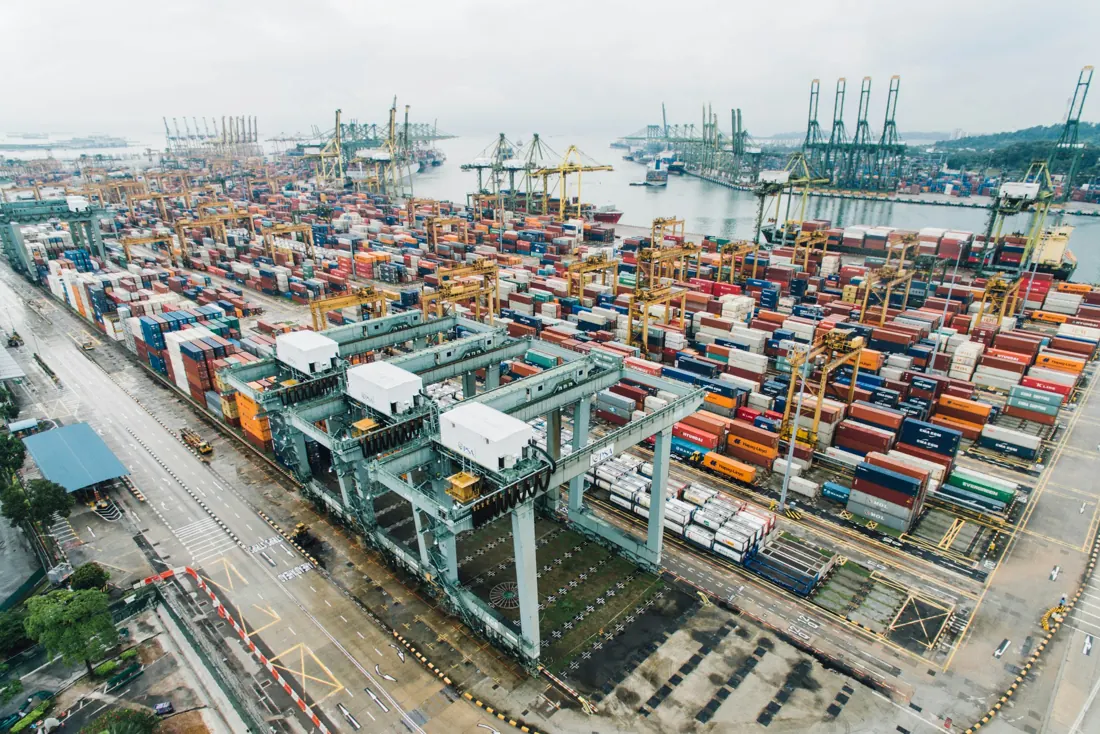
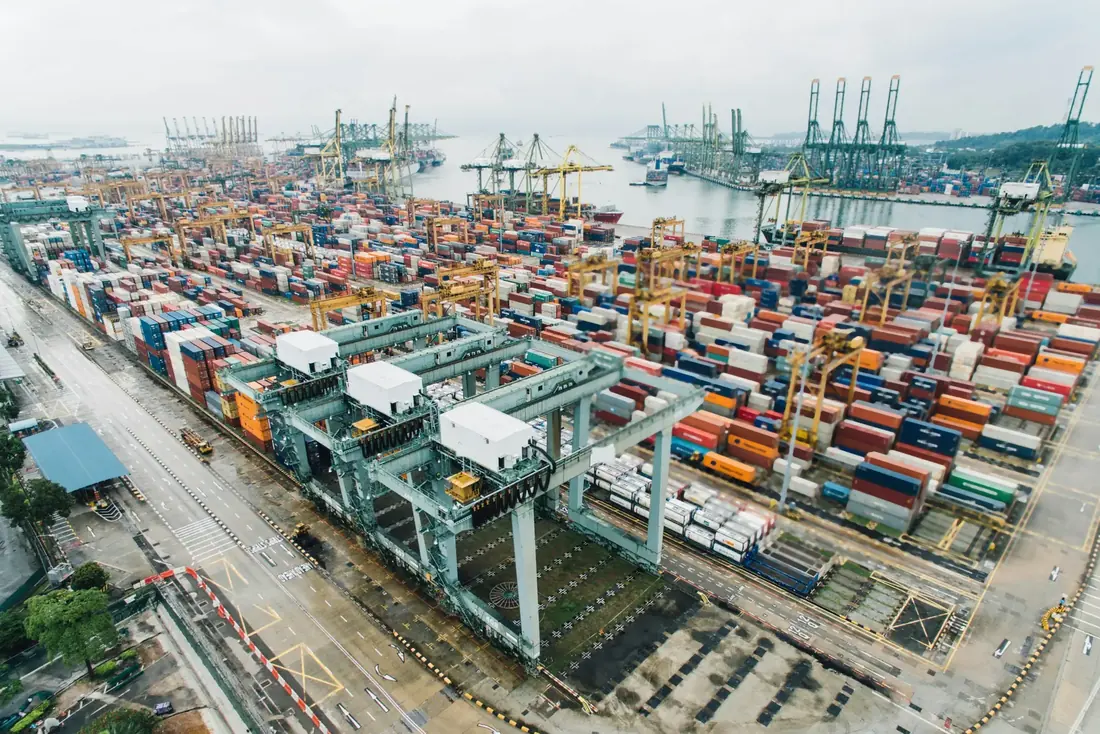
Final polish: cargo photo, tablet signal clearance, complete assistant demo
- Cargo photo: shipping-line names softened (feathered median over the container field only)
  and crane-cabin/sign-plate operator marks retouched out; sky, water and cranes untouched.
- Living Circuit: the route is measured against the revealed layout (.lc-measure), visible
  decorative lines count as obstacles, tablet clearance widened; no near-misses at any size.
- AI assistant demo: complete chat window (assistant header, bottom-anchored conversation,
  composer), plays once on entering view and holds; fixed height so nothing shifts; demo
  panels equal height with aligned captions.
- QA: layout-stability-while-scrolling check; reveal metric ignores unrelated animation;
  WebKit renderer-crash retry per route.

Claude-Session: https://claude.ai/code/session_01776VBYmXcpRozeZDMgVQrE

diff --git a/website/src/components/home/AiDemos.tsx b/website/src/components/home/AiDemos.tsx
@@ -37,9 +37,10 @@ function useTicker(steps: number, ms: number) {
 
 function Panel({ title, caption, children }: { title: string; caption: string; children: React.ReactNode }) {
   return (
-    <figure className="demo-panel group relative flex flex-col overflow-hidden rounded-3xl border border-white/[0.07] bg-[linear-gradient(165deg,rgba(9,30,82,0.75),rgba(0,10,40,0.85))] p-5 shadow-[0_30px_60px_-36px_rgba(0,0,0,0.9)] transition-[border-color] duration-300 hover:border-[#00F6FE]/30 sm:p-6">
+    <figure className="demo-panel group relative flex h-full flex-col overflow-hidden rounded-3xl border border-white/[0.07] bg-[linear-gradient(165deg,rgba(9,30,82,0.75),rgba(0,10,40,0.85))] p-5 shadow-[0_30px_60px_-36px_rgba(0,0,0,0.9)] transition-[border-color] duration-300 hover:border-[#00F6FE]/30 sm:p-6">
       <span className="absolute right-4 top-4 z-10 rounded-full border border-white/10 px-2 py-0.5 text-[0.58rem] uppercase tracking-[0.16em] text-haze">Illustrative</span>
-      <div className="relative flex-1 pt-5">{children}</div>
+      {/* Equal-height panels in a row: each demo is centred in its space and every caption sits on the same line. */}
+      <div className="relative flex flex-1 flex-col justify-center pt-5">{children}</div>
       <figcaption className="mt-5 border-t border-white/[0.06] pt-4">
         <p className="text-[1rem] font-semibold text-ink">{title}</p>
         <p className="mt-1 text-[0.86rem] leading-relaxed text-mist">{caption}</p>
@@ -159,13 +160,44 @@ function AutomatedWorkflow() {
   );
 }
 
-/* --------------------------------------------- 3 · a customer-facing assistant */
-// An illustrative service enquiry: answered from the business's own knowledge, guided to a
-// booking, and handed to a person when it needs one.
-function Bubble({ who, children, show }: { who: "customer" | "assistant"; children: React.ReactNode; show: boolean }) {
+/**
+ * Plays a sequence once, the first time it scrolls into view, then holds the final state. It
+ * starts (and renders on the server) at `from`, so the panel is never shown empty.
+ */
+function useSequence(steps: number, ms: number, from: number) {
+  const ref = useRef<HTMLDivElement>(null);
+  const [step, setStep] = useState(steps - 1);
+  useEffect(() => {
+    const el = ref.current;
+    if (!el || window.matchMedia("(prefers-reduced-motion: reduce)").matches) return;
+    let timer: ReturnType<typeof setInterval> | null = null;
+    const io = new IntersectionObserver(
+      ([e]) => {
+        if (!e.isIntersecting) return;
+        io.disconnect();
+        setStep(from);
+        timer = setInterval(() => {
+          setStep((v) => {
+            if (v + 1 >= steps - 1 && timer) clearInterval(timer);
+            return Math.min(steps - 1, v + 1);
+          });
+        }, ms);
+      },
+      { threshold: 0.35 },
+    );
+    io.observe(el);
+    return () => {
+      io.disconnect();
+      if (timer) clearInterval(timer);
+    };
+  }, [steps, ms, from]);
+  return { ref, step };
+}
+
+function Bubble({ who, children }: { who: "customer" | "assistant"; children: React.ReactNode }) {
   const mine = who === "customer";
   return (
-    <div className={`flex gap-2 transition-[opacity,transform] duration-500 ${mine ? "justify-end" : ""}`} style={{ opacity: show ? 1 : 0, transform: show ? "none" : "translateY(6px)" }}>
+    <div className={`chat-in flex gap-2 ${mine ? "justify-end" : ""}`}>
       {!mine && (
         <span className="grid h-6 w-6 shrink-0 place-items-center rounded-md border border-[#00F6FE]/40 text-[#00F6FE]">
           <Icon name="assistant" className="h-3.5 w-3.5" />
@@ -176,34 +208,66 @@ function Bubble({ who, children, show }: { who: "customer" | "assistant"; childr
   );
 }
 
+/* --------------------------------------------- 3 · a customer-facing assistant */
+// An illustrative service enquiry, shown as a complete chat window: who is answering, the
+// conversation anchored to the bottom like a real chat (fixed height, so nothing moves around
+// it), and the message field. It plays through
+// once when it comes into view (answer → booking → handover to a person) and then holds.
 function Assistant() {
-  const { ref, step, reduced } = useTicker(6, 1500);
-  const s = reduced ? 5 : step;
+  const { ref, step: s } = useSequence(6, 1300, 1);
   return (
-    <div ref={ref} aria-hidden className="space-y-2.5">
-      <Bubble who="customer" show>
-        Can someone look at my air-conditioning unit this week? It’s started rattling.
-      </Bubble>
-      <Bubble who="assistant" show={s >= 1}>
-        A rattle is often a loose panel or fan mount — worth checking soon. We can visit Thursday 10:00 or Friday 14:00.
-        <span className="mt-1.5 flex flex-wrap gap-1.5">
-          {["Thu 10:00", "Fri 14:00"].map((t, i) => (
-            <span key={t} className="rounded-full border px-2 py-0.5 text-[0.66rem] transition-colors duration-500" style={{ borderColor: s >= 3 && i === 0 ? "#83FD80" : "rgba(0,246,254,0.35)", color: s >= 3 && i === 0 ? "#83FD80" : "#9fefff" }}>
-              {t}
-            </span>
-          ))}
-          <span className="rounded-full border border-white/10 px-2 py-0.5 text-[0.62rem] text-haze">Source: service guide</span>
+    <div ref={ref} aria-hidden className="flex h-full flex-col rounded-2xl border border-white/[0.06] bg-[rgba(0,10,40,0.45)]">
+      <div className="flex items-center gap-2.5 border-b border-white/[0.06] px-3.5 py-2.5">
+        <span className="grid h-7 w-7 place-items-center rounded-lg border border-[#00F6FE]/40 text-[#00F6FE]">
+          <Icon name="assistant" className="h-4 w-4" />
         </span>
-      </Bubble>
-      <Bubble who="customer" show={s >= 2}>
-        Thursday, please. Is it covered by my warranty?
-      </Bubble>
-      <Bubble who="assistant" show={s >= 4}>
-        Booked for Thursday 10:00. Warranty questions go to the service team — I’ve passed them your details and they’ll confirm today.
-      </Bubble>
-      <div className="flex items-center gap-2 pl-8 text-[0.62rem] uppercase tracking-[0.16em] transition-opacity duration-500" style={{ opacity: s >= 5 ? 1 : 0, color: "#83FD80" }}>
-        <span className="h-1.5 w-1.5 rounded-full bg-[#83FD80]" />
-        Handed to a person · Service team
+        <span className="min-w-0">
+          <span className="block text-[0.8rem] font-semibold text-ink">Service assistant</span>
+          <span className="flex items-center gap-1.5 text-[0.66rem] text-haze">
+            <span className="h-1.5 w-1.5 rounded-full bg-[#83FD80]" />
+            Answers from your service guide
+          </span>
+        </span>
+      </div>
+      {/* Fixed height: the conversation grows from the bottom and older messages scroll off the top,
+          so the panel never changes size (no layout shift) while it plays. */}
+      <div className="chat-scroll flex h-[19rem] flex-col justify-end md:h-[16.5rem] gap-2.5 overflow-hidden px-3 py-3">
+        <Bubble who="customer">Can someone look at my air-conditioning unit this week? It’s started rattling.</Bubble>
+        <Bubble who="assistant">
+          A rattle is often a loose panel or fan mount — worth checking soon. We can visit Thursday 10:00 or Friday 14:00.
+          <span className="mt-1.5 flex flex-wrap gap-1.5">
+            {["Thu 10:00", "Fri 14:00"].map((t, i) => (
+              <span key={t} className="rounded-full border px-2 py-0.5 text-[0.66rem] transition-colors duration-500" style={{ borderColor: s >= 2 && i === 0 ? "#83FD80" : "rgba(0,246,254,0.35)", color: s >= 2 && i === 0 ? "#83FD80" : "#9fefff" }}>
+                {t}
+              </span>
+            ))}
+            <span className="rounded-full border border-white/10 px-2 py-0.5 text-[0.62rem] text-haze">Source: service guide</span>
+          </span>
+        </Bubble>
+        {s >= 2 && <Bubble who="customer">Thursday, please. Is it covered by my warranty?</Bubble>}
+        {s === 3 && (
+          <div className="chat-in flex gap-2">
+            <span className="h-6 w-6 shrink-0" />
+            <span className="flex gap-1 rounded-2xl rounded-tl-md border border-[#00F6FE]/25 bg-[#00F6FE]/[0.05] px-3 py-2.5">
+              {[0, 1, 2].map((d) => (
+                <span key={d} className="h-1.5 w-1.5 animate-pulse rounded-full bg-[#00F6FE]" style={{ animationDelay: `${d * 150}ms` }} />
+              ))}
+            </span>
+          </div>
+        )}
+        {s >= 4 && <Bubble who="assistant">Booked for Thursday 10:00. Warranty questions go to the service team — I’ve passed them your details and they’ll confirm today.</Bubble>}
+        {s >= 5 && (
+          <div className="chat-in flex items-center gap-2 pl-8 text-[0.62rem] uppercase tracking-[0.16em] text-[#83FD80]">
+            <span className="h-1.5 w-1.5 rounded-full bg-[#83FD80]" />
+            Handed to a person · Service team
+          </div>
+        )}
+      </div>
+      <div className="m-2.5 mt-0 flex items-center gap-2 rounded-xl border border-white/[0.08] bg-white/[0.03] px-3 py-2">
+        <span className="flex-1 text-[0.74rem] text-haze">Message the service team…</span>
+        <svg viewBox="0 0 16 16" className="h-3.5 w-3.5 text-[#00F6FE]/70" fill="none" stroke="currentColor" strokeWidth="1.5">
+          <path d="M2 8h11M9 4l4 4-4 4" />
+        </svg>
       </div>
     </div>
   );

diff --git a/website/src/components/motion/LivingCircuit.tsx b/website/src/components/motion/LivingCircuit.tsx
@@ -37,12 +37,14 @@ function contentRects(root: HTMLElement, skip: (n: Element) => boolean, box: DOM
     for (const r of Array.from(range.getClientRects())) add(r);
   }
   // Surfaces: only elements whose classes or inline style can draw one are inspected (cheap filter),
-  // then confirmed from computed style. Decorative aria-hidden overlays (hover glows, rails) are not
-  // surfaces.
+  // then confirmed from computed style.
   const MAY_DRAW = /(^|\s)(bg-|border|shadow|outline|ring|photo|demo-panel|rounded)/;
   root.querySelectorAll<HTMLElement>("section *").forEach((n) => {
     if (skip(n) || !(MAY_DRAW.test(n.getAttribute("class") || "") || n.hasAttribute("style"))) return;
-    if (n.closest("[aria-hidden='true'].absolute")) return;
+    // Visible decoration (rails, nodes, markers) is avoided like content; only layers hidden by
+    // design until interaction (e.g. hover glows marked opacity-0) are not obstacles.
+    const deco = n.closest<HTMLElement>("[aria-hidden='true'].absolute");
+    if (deco && /(^|\s)opacity-0(\s|$)/.test(deco.getAttribute("class") || "")) return;
     const cs = getComputedStyle(n);
     // Opacity is deliberately not checked: cards that fade in on scroll are still content.
     if (cs.visibility === "hidden" || cs.display === "none" || cs.position === "fixed") return;
@@ -128,15 +130,26 @@ export function LivingCircuit() {
     const root = el?.parentElement;
     if (!el || !root) return;
     let timer = 0;
+    // Everything (content, markers, sections) is measured at its revealed position: see
+    // .lc-measure in globals.css.
     const measure = () => {
+      const html = document.documentElement;
+      html.classList.add("lc-measure");
+      try {
+        computeRoute();
+      } finally {
+        html.classList.remove("lc-measure");
+      }
+    };
+    const computeRoute = () => {
       const box = root.getBoundingClientRect();
       const W = box.width;
       const H = box.height;
       const vw = window.innerWidth;
       const mobile = vw < 768;
       const tablet = !mobile && vw < 1100;
-      const cell = mobile ? 5 : tablet ? 6 : 10;
-      const inflate = mobile ? 7 : tablet ? 9 : 22;
+      const cell = mobile ? 5 : tablet ? 5 : 10;
+      const inflate = mobile ? 7 : tablet ? 14 : 22;
       const end = root.querySelector<HTMLElement>("[data-trail-end]");
       const obstacles = contentRects(root, (n) => el.contains(n) || !!end?.contains(n), box);
       // Real content only (before the artificial viewport-edge strips are added for routing).
@@ -291,7 +304,7 @@ export function LivingCircuit() {
     const total = t.total;
     // The light scales with the viewport so it stays in the open space around the signal.
     const vw = window.innerWidth;
-    const R = Math.round(Math.min(300, Math.max(160, vw * 0.2)));
+    const R = Math.round(Math.min(300, Math.max(185, vw * 0.21)));
     const RS = Math.round(R * 0.55);
     const TRAVEL = geo.mobile ? 240 : 320;
     const TAIL = geo.mobile ? 260 : 520;

diff --git a/website/src/app/globals.css b/website/src/app/globals.css
@@ -572,3 +572,46 @@ html[data-opening-hide-header="1"] .site-logo {
     animation: none;
   }
 }
+
+/* Chat messages in the assistant demo arrive with a short rise. */
+.chat-in {
+  animation: chat-in 420ms var(--ease) both;
+}
+@keyframes chat-in {
+  from {
+    opacity: 0;
+    transform: translateY(6px);
+  }
+}
+@media (prefers-reduced-motion: reduce) {
+  .chat-in {
+    animation: none;
+  }
+}
+
+/* Living Circuit measurement: while the route is measured, every reveal effect is shown at its
+   final (revealed) position with no transition, so the signal is routed around where content
+   settles, not where it waits before animating in. Add any new reveal effect here; QA measures the
+   revealed page and fails if the route crosses content. */
+.lc-measure [data-reveal],
+.lc-measure [data-reveal] .line > span,
+.lc-measure .decision-row,
+.lc-measure .rail-step,
+.lc-measure .ascent-step,
+.lc-measure .ascent-arrow,
+.lc-measure .demo-in,
+.lc-measure .outcome-tile,
+.lc-measure .final-block,
+.lc-measure .final-wordmark,
+.lc-measure .decision-rail,
+.lc-measure .rail-line,
+.lc-measure .process-line,
+.lc-measure .engagement-fill {
+  transform: none !important;
+  transition: none !important;
+}
+/* Older messages fade out at the top of the fixed-height conversation. */
+.chat-scroll {
+  -webkit-mask-image: linear-gradient(180deg, transparent 0, #000 2.25rem);
+  mask-image: linear-gradient(180deg, transparent 0, #000 2.25rem);
+}

diff --git a/website/public/photos/CREDITS.md b/website/public/photos/CREDITS.md
@@ -11,7 +11,7 @@ and Sapphire in CSS (`.photo`).
 | strategy | 1519389950473-47ba0277781c | Opening slices; Business Development; Approach (manufacturer mark on an external drive retouched out) |
 | engineering | 1515879218367-8466d910aaa4 | Opening slices; AI Engineering (close-up of generic code; no hardware, product marks or names — replaced a laptop photo showing a MacBook bezel, menu-bar logo and a personal name) |
 | intelligence | 1558494949-ef010cbdcc31 | Opening slices + portal; AI Engineering detail |
-| growth | 1494412574643-ff11b0a5c1c3 | Opening slices; Market Growth |
+| growth | 1494412574643-ff11b0a5c1c3 | Opening slices; Market Growth (shipping-line names on containers softened and operator marks on crane cabins retouched out) |
 | decision | 1528819622765-d6bcf132f793 | Strategy portal; Expertise (strategic thinking: chess study, no people) |
 | earth | 1451187580459-43490279c0fa | Growth portal; final call to action |
 | boardroom | 1497366811353-6870744d04b2 | Expertise and Capabilities heroes (empty boardroom; checked at full resolution: no text, logos or people — replaced a chart photo whose handwritten axis labels were unsuitable, which itself replaced a template dashboard showing a personal name) |
